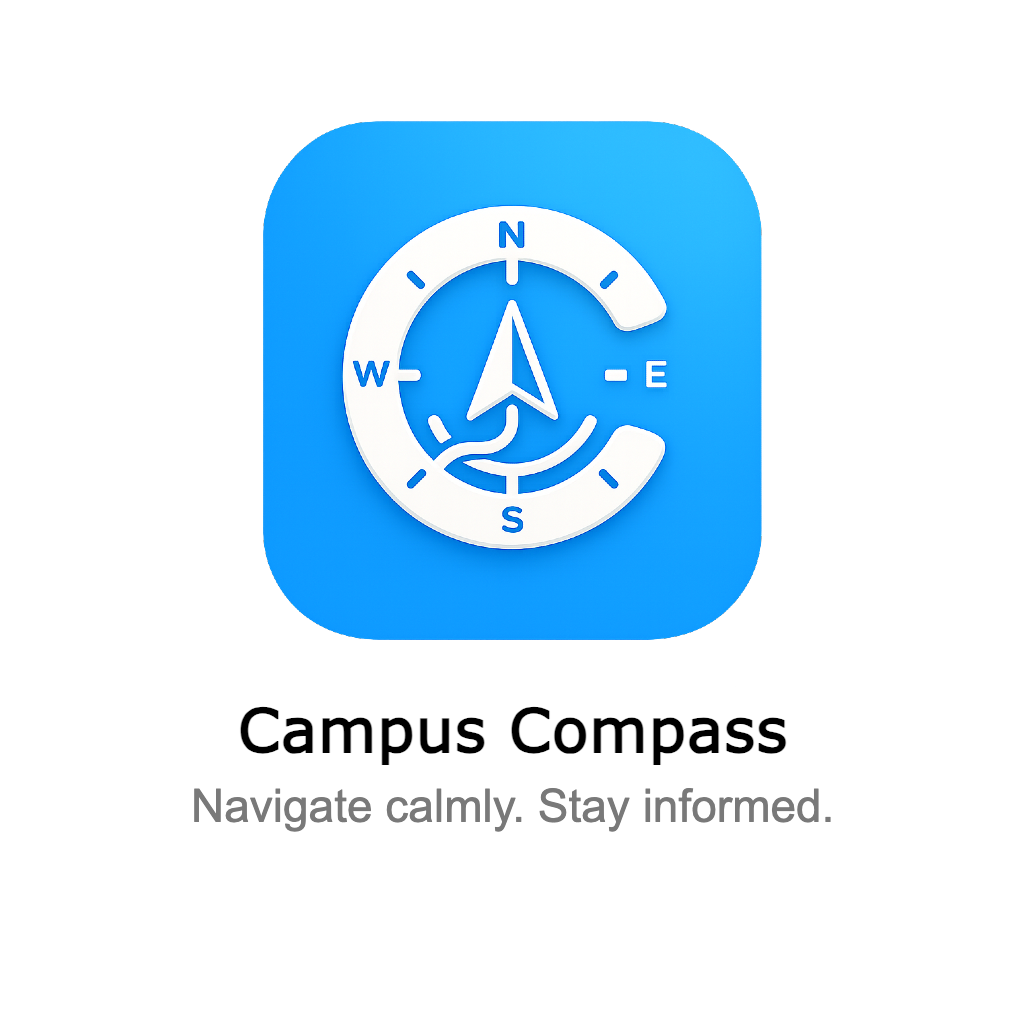
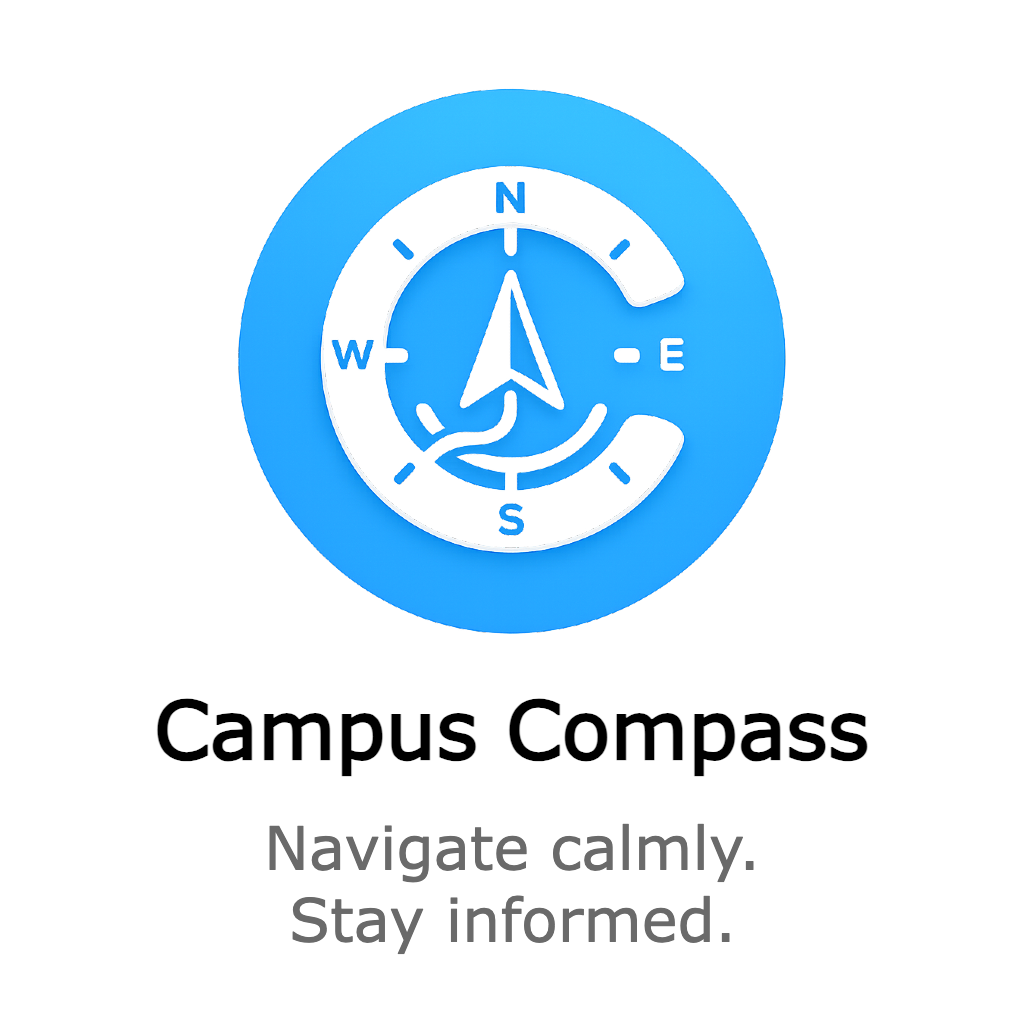
Login screen & added routes to MaterialApp

Changed region(s): [[0.2188, 0.0625, 0.7812, 0.625], [0.1562, 0.6562, 0.8438, 0.9375]]

diff --git a/campus_compass/lib/screens/login_screen.dart b/campus_compass/lib/screens/login_screen.dart
@@ -1,0 +1,257 @@
+import 'package:campus_compass/theme/app_colors.dart';
+import 'package:campus_compass/theme/app_theme.dart';
+import 'package:dotted_border/dotted_border.dart';
+import 'package:flutter/cupertino.dart';
+import 'package:flutter/material.dart';
+
+class LoginScreen extends StatefulWidget {
+  const LoginScreen({super.key});
+
+  @override
+  State<LoginScreen> createState() => _MyWidgetState();
+}
+
+class _MyWidgetState extends State<LoginScreen> {
+
+  final _formKey = GlobalKey<FormState>();
+  bool _obscureText = true;
+  bool _isChecked = false;
+
+  @override
+  void initState() {
+    super.initState();
+  }
+  @override
+  Widget build(BuildContext context) {
+    return Scaffold(
+      backgroundColor: Colors.white,
+      body: SafeArea(
+        child: Container(
+          color: Colors.white,
+          child: Center(
+            child: Column(
+            children: [
+              SizedBox(
+                height: 25,
+              ),
+              //Logo & subtitle
+              ClipRRect(
+                child: Image.asset(
+                  'assets/images/icon_prod_circ.png',
+                    height: 120,),
+                ),
+                Text('Campus Safety & Navigation', 
+                  style: TextStyle(color: Colors.grey[600], fontWeight: FontWeight.bold, fontSize: 16,)),
+                SizedBox(
+                  height: 50,
+                ),
+                Form(
+                  key: _formKey,
+                  child: Column(
+                    children: <Widget> [
+                      Container(
+                      padding: EdgeInsets.fromLTRB(MediaQuery.of(context).size.width / 9, 0, MediaQuery.of(context).size.width / 9, 8),
+                        child: Row(
+                          children: [
+                            //email label text
+                            Text('University Email', style: AppTheme.bulletStyle,)
+                          ],
+                        ),
+                      ),
+                      //email field
+                      SizedBox(
+                        width: MediaQuery.of(context).size.width / 1.25,
+                        child: TextFormField(
+                        keyboardType: TextInputType.emailAddress,
+                        decoration: const InputDecoration(
+                          prefixIcon: Icon(Icons.email_outlined, color: AppColors.mutedText,),
+                          hintText: 'net_name@live.concordia.ca', 
+                          border: OutlineInputBorder(borderRadius: BorderRadius.all(Radius.circular(20))),
+                          filled: true,
+                          fillColor: AppColors.lightCircle,
+                        ),
+                      ),
+                    ),
+                    SizedBox(height: 5,),
+                      //password field
+                      Row(
+                        mainAxisAlignment: MainAxisAlignment.spaceBetween,
+                          children: [
+                            //password label text
+                            Container( 
+                              padding: EdgeInsets.symmetric(horizontal: MediaQuery.of(context).size.width / 9),
+                              child: Text('Password', style: AppTheme.bulletStyle,),
+                            ),
+
+                            //forgot password button
+                            Container(
+                              padding: EdgeInsets.only(right: MediaQuery.of(context).size.width / 13),
+                              child: TextButton(
+                                onPressed: (){
+                                  showDialog(
+                                    context: context, 
+                                    builder: (context) {
+                                      return AlertDialog(
+                                        title: TextField(
+                                        ),
+                                      );
+                                    }
+                                  );
+                                }, 
+                                child: Text(
+                                'Forgot password?', 
+                                style: AppTheme.linkStyle,
+                                )
+                              ),
+                            ),
+                          ],
+                        ),
+                      SizedBox(
+                        width: MediaQuery.of(context).size.width / 1.25,
+                        child: TextFormField(
+                        obscureText: _obscureText,
+                        keyboardType: TextInputType.emailAddress,
+                        decoration: InputDecoration(
+                          prefixIcon: Icon(Icons.lock_outline, color: AppColors.mutedText,),
+                          suffixIcon: IconButton(onPressed: (){
+                            setState(() {
+                              _obscureText = !_obscureText;
+                            });
+                          }, icon: Icon(_obscureText ? Icons.visibility : Icons.visibility_off)),
+                          hintText: 'Password',
+                          border: OutlineInputBorder(borderRadius: BorderRadius.all(Radius.circular(20))),
+                          filled: true,
+                          fillColor: AppColors.lightCircle,
+                        ),
+                      ),
+                    ),
+                    SizedBox(height: 10,),
+                    Container(
+                      padding: EdgeInsets.symmetric(horizontal: MediaQuery.of(context).size.width / 13),
+                      child: Row(
+                        children: [
+                          Checkbox(
+                            value: _isChecked, 
+                            onChanged: (bool? newValue){
+                              setState(() {
+                                _isChecked = newValue!;
+                            });
+                          }),
+                          Text('Remember this device'),
+                        ],
+                      ),
+                    ),
+                    SizedBox(height: 10,),
+                    //Login button
+                    Container(
+                      padding: EdgeInsets.symmetric(horizontal: MediaQuery.of(context).size.width / 8),
+                      height: MediaQuery.of(context).size.height / 17,
+                      child: ElevatedButton(
+                        onPressed: () {
+                          Navigator.pushNamed(context, '/map');
+                        }, 
+                        child: Row(
+                          mainAxisAlignment: MainAxisAlignment.center,
+                          children: [
+                            Text('Login', style: TextStyle(color: AppColors.white, fontWeight: FontWeight.w900, fontSize: 18),), 
+                            SizedBox(width: 13,),
+                            Icon(Icons.arrow_forward, color: AppColors.white,)
+                          ],
+                        ),
+                      ),
+                    ),
+
+                    //Create account prompt & text button
+                    Row(
+                      mainAxisAlignment: MainAxisAlignment.center,
+                      children: [
+                        Text('New to Concordia?',),
+                        // SizedBox(width: 10,),
+                        TextButton(
+                          onPressed: (){
+                            //Navigate to create account screen
+                        }, 
+                        child: Text('Create account', style: AppTheme.linkStyle,))
+                      ],
+                    ),
+                    SizedBox(
+                      height: 20,
+                    ),
+                    //Text with dividers
+                    Container(
+                      padding: EdgeInsets.symmetric(horizontal: MediaQuery.of(context).size.width / 13),
+                      child: Row(
+                        crossAxisAlignment: CrossAxisAlignment.center,
+                        children: [
+                          Expanded(
+                            child: Divider()
+                          ),
+                          Padding(
+                            padding: EdgeInsets.symmetric(horizontal: 10),
+                            child: Text('OR QUICK ACCESS', style: AppTheme.descriptionStyle,),
+                          ),
+                          Expanded(
+                            child: Divider(),
+                          ),
+                        ],
+                      ),
+                    ),
+                    SizedBox(height: 25,),
+                    //dotted line for Continue as Guest
+                    Container(
+                      padding: EdgeInsets.symmetric(horizontal: MediaQuery.of(context).size.width / 14),
+                      child: DottedBorder(
+                        options: RectDottedBorderOptions(
+                          dashPattern: [5, 5],
+                          strokeWidth: 2,
+                          padding: EdgeInsets.all(16),
+                          color: AppColors.secondaryBlue,
+                        ),
+                        
+                        //dotted line contents
+                        child: Row(
+                          mainAxisAlignment: MainAxisAlignment.spaceAround,
+                          children: [
+                            //shield icon
+                            Container(
+                              width: 50,
+                              height: 50,
+                              decoration: BoxDecoration(
+                                color: Colors.blue[50],
+                                shape: BoxShape.circle,
+                              ),  
+                              child: Icon(CupertinoIcons.checkmark_shield, color: AppColors.primaryBlue,),           
+                            ),
+                            //Text information
+                            Column(
+                              crossAxisAlignment: CrossAxisAlignment.start,
+                              children: [
+                                Text('Continue as Guest', style: AppTheme.bulletStyle,),
+                                Text('Immediate access to safety \nmap & alerts'),
+                              ],
+                            ),
+
+                            SizedBox(width: 10,),
+
+                            //arrow icon
+                            Icon(Icons.arrow_forward, color: AppColors.mutedText,),                           
+                          ],
+                        )
+                      ),
+                    ), 
+
+                    SizedBox(height: 20,),
+
+                    //Data sharing consent
+                    Text('By continuing, you agree to the safty sharing terms \nand privacy guidelines of Concordia University.', 
+                    style: TextStyle(color: Colors.grey[600], fontSize: 13), textAlign: TextAlign.center,)
+                  ],
+                )
+              ),
+            ],
+          ),
+        ),
+      )),
+    );
+  }
+}

diff --git a/campus_compass/lib/main.dart b/campus_compass/lib/main.dart
@@ -1,7 +1,9 @@
 import 'package:campus_compass/screens/onboarding_screen.dart';
 import 'package:flutter/material.dart';
 import 'package:campus_compass/theme/app_colors.dart';
+import 'package:campus_compass/theme/app_theme.dart';
 import 'package:campus_compass/screens/map_screen.dart';
+import 'package:campus_compass/screens/login_Screen.dart';
 import 'package:campus_compass/screens/incident_detail_screen.dart';
 import 'package:campus_compass/models/incident.dart';
 
@@ -16,24 +18,14 @@ class MyApp extends StatelessWidget {
   @override
   Widget build(BuildContext context) {
     return MaterialApp(
+      routes:{
+        '/login': (context) => const LoginScreen(),
+        '/map': (context) => const MapScreen(),
+      },
       title: 'Campus Compass',
       debugShowCheckedModeBanner: false,
-      theme: ThemeData(
-        // This is the theme of your application.
-        //
-        // TRY THIS: Try running your application with "flutter run". You'll see
-        // the application has a purple toolbar. Then, without quitting the app,
-        // try changing the seedColor in the colorScheme below to Colors.green
-        // and then invoke "hot reload" (save your changes or press the "hot
-        // reload" button in a Flutter-supported IDE, or press "r" if you used
-        // the command line to start the app).
-        //
-        // Notice that the counter didn't reset back to zero; the application
-        // state is not lost during the reload. To reset the state, use hot
-        // restart instead.
-        //
-        // This works for code too, not just values: Most code changes can be
-        // tested with just a hot reload.
+      // AppTheme holds elevatedButtonTheme, textButtonTheme, textTheme, etc.
+      theme: AppTheme.appTheme.copyWith(
         colorScheme: ColorScheme.fromSeed(
           seedColor: AppColors.primaryBlue,
         ),

diff --git a/campus_compass/lib/theme/app_theme.dart b/campus_compass/lib/theme/app_theme.dart
@@ -6,12 +6,27 @@ class AppTheme {
   AppTheme._(); // private constructor to prevent instantiation
 
   // Button Theme Data
-  static ButtonThemeData buttonTheme = ButtonThemeData(
-    buttonColor: AppColors.primaryBlue,
-    textTheme: ButtonTextTheme.primary,
-    shape: RoundedRectangleBorder(
-      borderRadius: BorderRadius.circular(8),
-    ),
+  static ElevatedButtonThemeData elevatedButtonTheme = ElevatedButtonThemeData(
+    style: ElevatedButton.styleFrom(
+      backgroundColor: AppColors.primaryBlue,
+      textStyle: TextStyle(color: AppColors.white, fontSize: 14),
+      shape: RoundedRectangleBorder(
+        borderRadius: BorderRadius.circular(20),
+      ), 
+      elevation: 1.4,
+    )
+  );
+
+  // Button Theme Data
+  static TextButtonThemeData textButtonTheme = TextButtonThemeData(
+    style: TextButton.styleFrom(
+      textStyle: linkStyle,
+      shape: RoundedRectangleBorder(
+        borderRadius: BorderRadius.circular(20),
+      ), 
+      elevation: 1.4,
+
+    )
   );
 
   // Text Theme Data
@@ -25,8 +40,9 @@ class AppTheme {
 
   // App Theme Data
   static ThemeData appTheme = ThemeData(
-    buttonTheme: buttonTheme,
     textTheme: textTheme,
+    textButtonTheme: textButtonTheme, 
+    elevatedButtonTheme: elevatedButtonTheme,
   );
 
   // MaterialBanner theme data
@@ -71,5 +87,12 @@ class AppTheme {
     height: 1.6,
     color: AppColors.mutedText,
     fontStyle: FontStyle.italic,
+  );
+
+    static const TextStyle linkStyle = TextStyle(
+    fontSize: 14.5,
+    height: 1.6,
+    color: AppColors.primaryBlue,
+    fontWeight: FontWeight.bold,
   );
 }

diff --git a/campus_compass/lib/theme/app_colors.dart b/campus_compass/lib/theme/app_colors.dart
@@ -5,6 +5,7 @@ class AppColors {
   AppColors._(); // private constructor to prevent instantiation
 
   static const primaryBlue = Color(0xFF369DF4);
+  static const secondaryBlue = Color(0xFFb8d7fe);
   static const pageBackground = Color(0xFFF7F7F8);
   static const softBackground = Color(0xFFF7F7F8);
   static const darkText = Color(0xFF171717);

diff --git a/campus_compass/lib/screens/onboarding_screen.dart b/campus_compass/lib/screens/onboarding_screen.dart
@@ -27,7 +27,9 @@ class _OnboardingScreenState extends State<OnboardingScreen> {
         curve: Curves.easeInOut,
       );
     } else {
-      // TODO: navigate to login page
+      // TODO: navigate to login page if notLoggedIn, 
+      //else either register/guest
+      Navigator.pushNamed(context, '/login');
     }
   }
 
